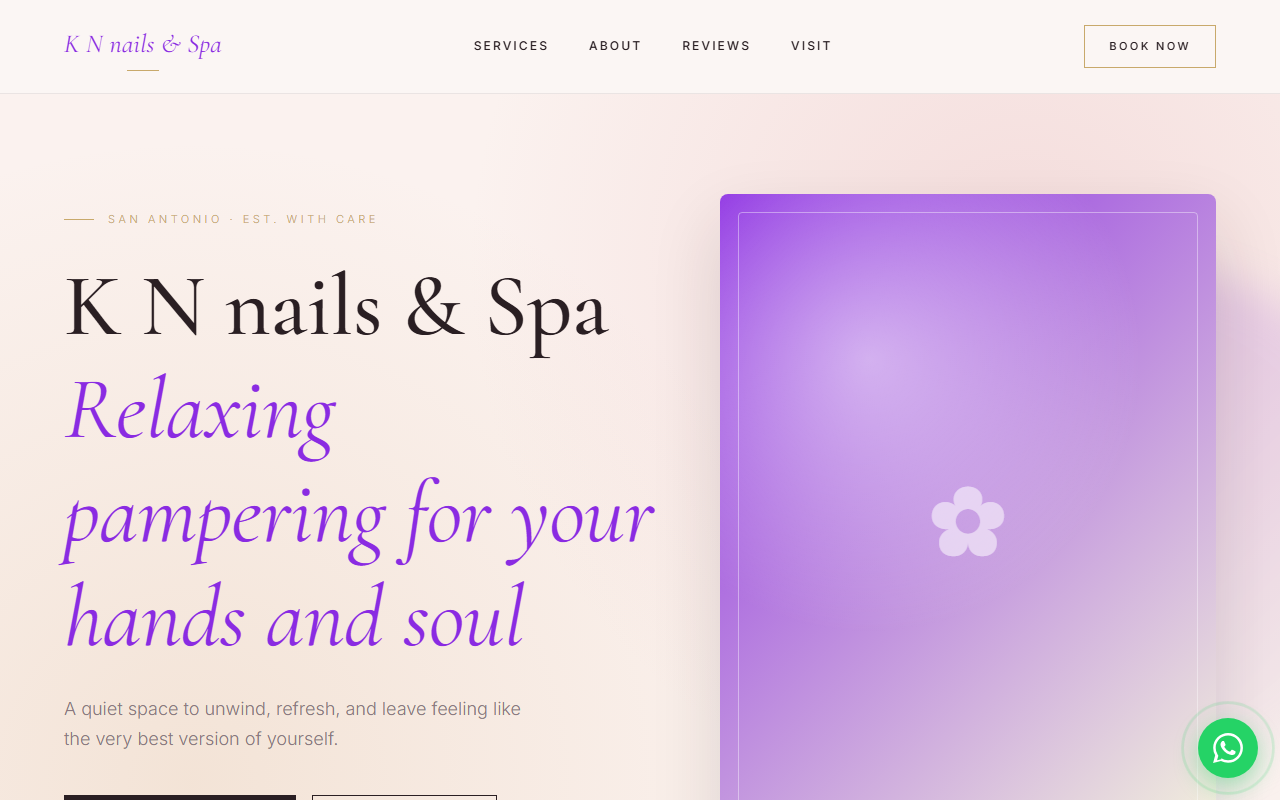
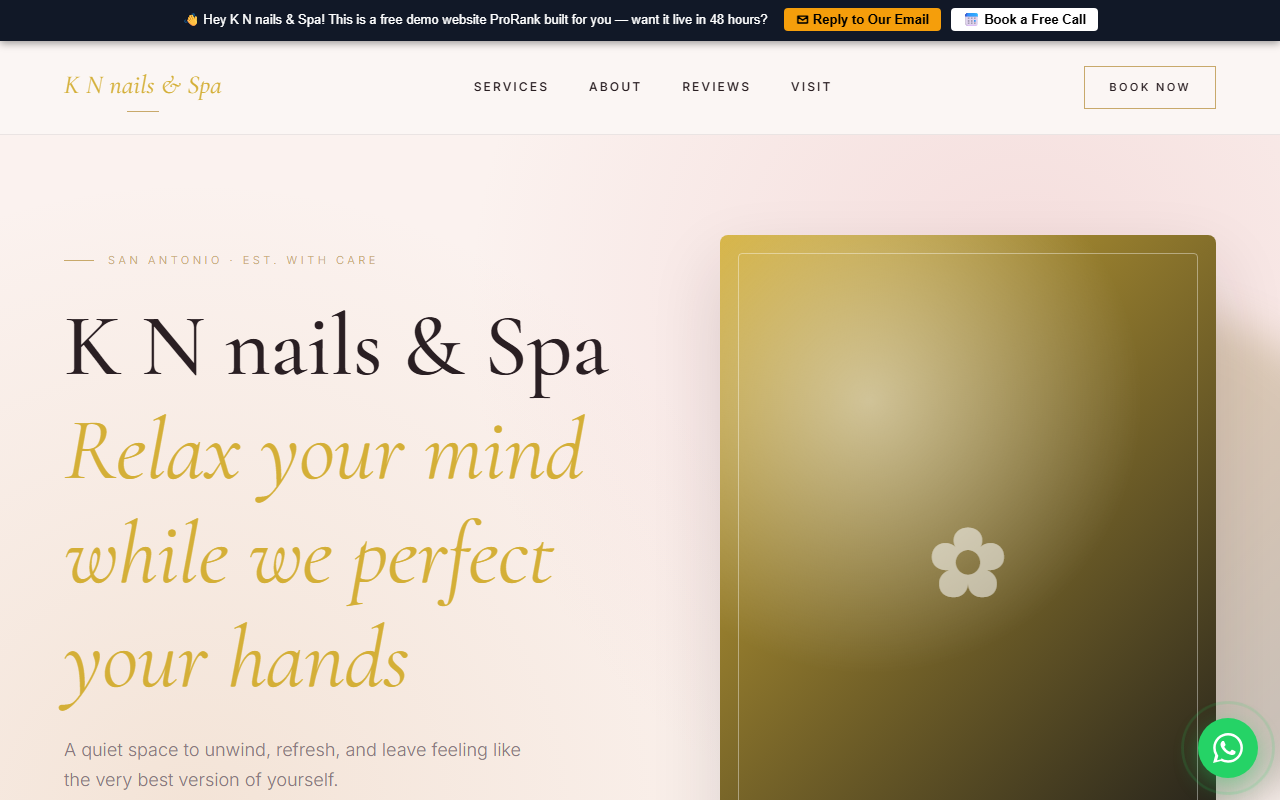
Add demo: k-n-nails-spa

diff --git a/k-n-nails-spa/index.html b/k-n-nails-spa/index.html
@@ -4,14 +4,14 @@
 <meta charset="UTF-8" />
 <meta name="viewport" content="width=device-width, initial-scale=1.0" />
 <title>K N nails & Spa — San Antonio</title>
-<meta name="description" content="Enjoy relaxing pampering at K N nails & Spa in San Antonio. We offer premium manicures, luxury pedicures, and soothing spa treatments designed to rejuvenate your hands and soul." />
+<meta name="description" content="Visit K N nails & Spa in San Antonio for relaxing manicures, deep tissue massages, and premium facial treatments. Your sanctuary for beauty and wellness." />
 <link rel="preconnect" href="https://fonts.googleapis.com">
 <link rel="preconnect" href="https://fonts.gstatic.com" crossorigin>
 <link href="https://fonts.googleapis.com/css2?family=Cormorant+Garamond:ital,wght@0,400;0,500;0,600;1,400&family=Inter:wght@300;400;500;600&display=swap" rel="stylesheet">
 <style>
   :root {
-    --primary: #8A2BE2;
-    --secondary: #F5F5DC;
+    --primary: #D4AF37;
+    --secondary: #1A1A1A;
     --blush: #fbf2ef;
     --pearl: #faf6f3;
     --ink: #2a1f23;
@@ -311,6 +311,11 @@
 </style>
 </head>
 <body>
+<div id="prorank-banner" style="position:sticky; top:0; z-index:9999; background:#111827; color:#ffffff; text-align:center; padding:10px 20px; font-family:-apple-system,sans-serif; font-size:13px; line-height:1.6; box-shadow:0 2px 8px rgba(0,0,0,0.4);">
+  &#128075; <strong>Hey K N nails & Spa!</strong> This is a <strong>free demo website</strong> ProRank built for you &mdash; want it live in <strong>48 hours?</strong> &nbsp;
+  <a href="mailto:prorankweb@gmail.com" style="background:#f59e0b; color:#000; font-weight:700; padding:4px 12px; border-radius:4px; text-decoration:none; margin:0 6px;">&#9993; Reply to Our Email</a>
+  <a href="https://calendly.com/lakshya1/quick-website-chat" target="_blank" style="background:#ffffff; color:#000; font-weight:700; padding:4px 12px; border-radius:4px; text-decoration:none;">&#128197; Book a Free Call</a>
+</div>
 
 <nav class="nav">
   <div class="nav-inner">
@@ -329,7 +334,7 @@
   <div class="hero-inner">
     <div class="hero-text">
       <div class="eyebrow">San Antonio · Est. with care</div>
-      <h1>K N nails & Spa<br/><em>Relaxing pampering for your hands and soul</em></h1>
+      <h1>K N nails & Spa<br/><em>Relax your mind while we perfect your hands</em></h1>
       <p class="lede">A quiet space to unwind, refresh, and leave feeling like the very best version of yourself.</p>
       <div class="hero-actions">
         <a href="tel:12103682519" class="btn btn-primary">Book Appointment</a>
@@ -351,19 +356,19 @@
       <div class="service-card">
         <span class="service-num">— No. 01 —</span>
         <div class="service-icon">✂</div>
-        <h3>Premium manicures</h3>
+        <h3>Luxury Nail Art</h3>
         <p>A consultation, a fresh perspective, and a finish that's unmistakably you.</p>
       </div>
       <div class="service-card">
         <span class="service-num">— No. 02 —</span>
         <div class="service-icon">❋</div>
-        <h3>Luxury pedicures</h3>
+        <h3>Deep Tissue Massage</h3>
         <p>Premium products, gentle technique, and results that hold up beautifully.</p>
       </div>
       <div class="service-card">
         <span class="service-num">— No. 03 —</span>
         <div class="service-icon">✿</div>
-        <h3>Relaxing spa treatments</h3>
+        <h3>Facial Treatments</h3>
         <p>An hour just for you — to relax, refresh, and walk out glowing.</p>
       </div>
     </div>
